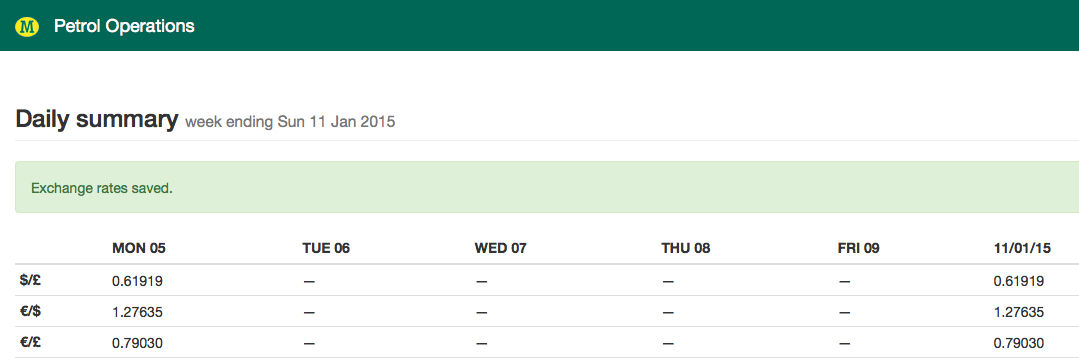
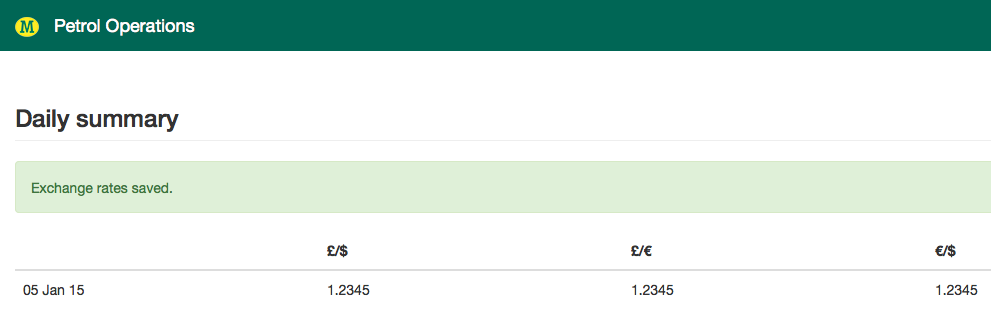
comparison of tables

Changed region(s): [[0.0, 0.5714, 1.0, 0.9714], [0.0, 0.2857, 1.0, 0.5429], [0.0, 0.0286, 1.0, 0.1714]]

diff --git a/market-daily-historic-pt.html b/market-daily-historic-pt.html
@@ -1,0 +1,88 @@
+<!DOCTYPE html>
+	<html lang="en">
+	  <head>
+	    <meta charset="utf-8">
+	    <meta http-equiv="X-UA-Compatible" content="IE=edge">
+	    <meta name="viewport" content="width=device-width, initial-scale=1">
+	    <title>Morrisons Petrol Management System</title>
+
+	    <!-- Bootstrap core CSS -->
+	    <link href="bootstrap-3.2.0-dist/css/bootstrap.min.css" rel="stylesheet">
+	
+	    <!-- Custom styles for this template -->
+	    <link href="pfs.css" rel="stylesheet">
+
+	    <!-- HTML5 Shim and Respond.js IE8 support of HTML5 elements and media queries -->
+	    <!-- WARNING: Respond.js doesn't work if you view the page via file:// -->
+	    <!--[if lt IE 9]>
+	      <script src="https://oss.maxcdn.com/html5shiv/3.7.2/html5shiv.min.js"></script>
+	      <script src="https://oss.maxcdn.com/respond/1.4.2/respond.min.js"></script>
+	    <![endif]-->
+	  </head>
+	  <body>
+	    <div class="navbar navbar-inverse navbar-fixed-top">
+	      <div class="container-fluid">
+	        <div class="navbar-header">
+	          <a class="navbar-brand" href="dashboard.html">
+				<img alt="Morrisons logo" src="morrisonslogo.png" class="navbar-logo"> 
+				Petrol Operations</a>
+	        </div>
+
+				<ul class="nav navbar-nav navbar-left">
+					<li class="active"><a href="market-daily.html">Market data</a></li>
+					</ul>
+				  <ul class="nav navbar-nav navbar-right">
+					<li><a href="">Sign out</a></li>
+					</ul>	
+
+	      </div>
+	    </div>
+		<div class="container-fluid">
+			<div class="row">
+				<div class="col-xs-12">
+					<ul class="nav nav-pills" role="tablist">
+						<li><a href="fx-daily.html">Exchange rates</a></li>
+						<li><a href="prices-daily.html">Fuel prices</a></li>
+						<li class="active"><a href="">Daily summary</a></li>
+					</ul>
+				</div>
+			</div>	
+		</div>	
+		<div class="container-fluid">
+			<div class="row">
+				<div class="col-xs-12">
+					<h3 class="page-header">Daily summary <small>week ending 11/01/15</small></h3>					
+					<table class="table table-hover table-condensed">
+					  <thead><tr><th></th><th>MON 05</th><th>TUE 06</th><th>WED 07</th><th>THU 08</th><th>FRI 09</th><th>Week</th></tr></thead>
+						<tbody>
+							<tr><th>&dollar;/&pound;</th><td>0.61919</td><td>0.61919</td><td>0.61919</td><td>0.61919</td><td>0.61919</td><td>0.61919</td></tr>
+							<tr><th>&euro;/&dollar;</th><td>1.27635</td><td>1.27635</td><td>1.27635</td><td>1.27635</td><td>1.27635</td><td>1.27635</td></tr>
+							<tr><th>&euro;/&pound;</th><td>0.79030</td><td>0.79030</td><td>0.79030</td><td>0.79030</td><td>0.79030</td><td>0.79030</td></tr>
+
+							<tr><td></td><td><button class="btn btn-default btn-sm">Edit</button></td><td><button class="btn btn-default btn-sm">Edit</button></td><td><button class="btn btn-default btn-sm">Edit</button></td><td><button class="btn btn-default btn-sm">Edit</button></td><td><button class="btn btn-default btn-sm">Edit</button></td><td><button class="btn btn-default btn-sm">Edit</button></td></tr>
+
+							<tr><th>Unleaded</th><td>100.23</td><td>100.23</td><td>100.23</td><td>100.23</td><td>100.23</td><td>100.23</td></tr>
+							<tr><th>Diesel</th><td>100.23</td><td>100.23</td><td>100.23</td><td>100.23</td><td>100.23</td><td>100.23</td></tr>
+							<tr><th>Ethanol</th><td>100.23</td><td>100.23</td><td>100.23</td><td>100.23</td><td>100.23</td><td>100.23</td></tr>
+							<tr><th>Red bio-diesel</th><td>100.23</td><td>100.23</td><td>100.23</td><td>100.23</td><td>100.23</td><td>100.23</td></tr>
+							<tr><th>Bio-diesel</th><td>100.23</td><td>100.23</td><td>100.23</td><td>100.23</td><td>100.23</td><td>100.23</td></tr>
+							<tr><th>LPG</th><td>100.23</td><td>100.23</td><td>100.23</td><td>100.23</td><td>100.23</td><td>100.23</td></tr>
+							<tr><th>Med unleaded</th><td>100.23</td><td>100.23</td><td>100.23</td><td>100.23</td><td>100.23</td><td>100.23</td></tr>
+							<tr><th>Med diesel</th><td>100.23</td><td>100.23</td><td>100.23</td><td>100.23</td><td>100.23</td><td>100.23</td></tr>
+							<tr><td></td><td><button class="btn btn-default btn-sm">Edit</button></td><td><button class="btn btn-default btn-sm">Edit</button></td><td><button class="btn btn-default btn-sm">Edit</button></td><td><button class="btn btn-default btn-sm">Edit</button></td><td><button class="btn btn-default btn-sm">Edit</button></td><td><button class="btn btn-default btn-sm">Edit</button></td></tr>
+						</tbody>
+					</table>
+					</table>
+				</div>
+			</div>	
+		</div>
+
+
+    <!-- Bootstrap core JavaScript
+    ================================================== -->
+    <!-- Placed at the end of the document so the pages load faster -->
+    <script src="https://ajax.googleapis.com/ajax/libs/jquery/1.11.1/jquery.min.js"></script>
+    <script src="bootstrap-3.2.0-dist/js/bootstrap.min.js"></script>
+    <script src="assets/js/docs.min.js"></script>
+  </body>
+</html>

diff --git a/market-daily-historic-ls.html b/market-daily-historic-ls.html
@@ -41,8 +41,9 @@
 			<div class="row">
 				<div class="col-xs-12">
 					<ul class="nav nav-pills" role="tablist">
-						<li><a href="market-daily.html">Daily summary</a></li>
-						<li><a href="market-weekly.html">Weekly summary</a></li>
+						<li><a href="fx-daily.html">Exchange rates</a></li>
+						<li><a href="prices-daily.html">Fuel prices</a></li>
+						<li class="active"><a href="">Daily summary</a></li>
 					</ul>
 				</div>
 			</div>	
@@ -50,20 +51,20 @@
 		<div class="container-fluid">
 			<div class="row">
 				<div class="col-xs-12">
-					<h3 class="page-header">Daily summary for week ending Sun 04 Jan 2015</h3>
+					<h3 class="page-header">Daily summary <small>week ending 11/01/15</small></h3>
 					<div class="table-responsive">	
 						<table class="table table-hover">
 							<colgroup>
 								<col>
 								<col span="3">
 							</colgroup>	
-							<thead><th class="col-xs-1"></th><th class="col-xs-1">&pound;/&dollar;</th><th class="col-xs-1">&pound;/&euro;</th><th class="col-xs-1">&euro;/&dollar;</th><th class="col-xs-1">Unleaded</th><th class="col-xs-1">Diesel</th><th class="col-xs-1">Ethanol</th><th class="col-xs-1">Red bio-diesel</th><th class="col-xs-1">Bio-diesel</th><th class="col-xs-1">LPG</th><th class="col-xs-1">Med unleaded</th><th class="col-xs-1">Med diesel</th></thead>
+							<thead><th></th><th>&pound;/&dollar;</th><th>&pound;/&euro;</th><th>&euro;/&dollar;</th><th></th><th class="col-xs-1">Unleaded</th><th class="col-xs-1">Diesel</th><th class="col-xs-1">Ethanol</th><th class="col-xs-1">Red bio-diesel</th><th class="col-xs-1">Bio-diesel</th><th class="col-xs-1">LPG</th><th class="col-xs-1">Med unleaded</th><th class="col-xs-1">Med diesel</th><th></th></thead>
 							<tbody>
-								<tr><td>05 Jan 15</td><td>1.5185</td><td class="text-danger">1.1825</td><td>1.2805</td><td title="L=1054.75">1054.75</td><td>949.25</td><td>624.50</td><td>1211.75</td><td>1168.75</td><td>535.75</td><td>780.00</td><td>757.50</td></tr>
-								<tr><td>06 Jan 15</td><td>1.5185</td><td>1.1825</td><td>1.2805</td><td>1054.75</td><td>949.25</td><td>624.50</td><td>1211.75</td><td>1168.75</td><td>535.75</td><td>780.00</td><td>757.50</td></tr>
-								<tr><td>07 Jan 15</td><td>1.5185</td><td>1.1825</td><td>1.2805</td><td>1054.75</td><td>949.25</td><td>624.50</td><td>1211.75</td><td>1168.75</td><td>535.75</td><td>780.00</td><td>757.50</td></tr>
-								<tr><td>08 Jan 15</td><td>1.5185</td><td>1.1825</td><td>1.2805</td><td>1054.75</td><td>949.25</td><td>624.50</td><td>1211.75</td><td>1168.75</td><td>535.75</td><td>780.00</td><td>757.50</td></tr>
-								<tr><td>09 Jan 15</td><td>1.5185</td><td>1.1825</td><td>1.2805</td><td>1054.75</td><td>949.25</td><td>624.50</td><td>1211.75</td><td>1168.75</td><td>535.75</td><td>780.00</td><td>757.50</td></tr>
+								<tr><td>05 Jan 15</td><td>1.5185</td><td>1.1825</td><td>1.2805</td><td><a href="" class="btn btn-default btn-sm">Edit</a></td><td title="L=1054.75">1054.75</td><td>949.25</td><td>624.50</td><td>1211.75</td><td>1168.75</td><td>535.75</td><td>780.00</td><td>757.50</td><td><a href="" class="btn btn-default btn-sm">Edit</a></td></tr>
+								<tr><td>06 Jan 15</td><td>1.5185</td><td>1.1825</td><td>1.2805</td><td><a href="" class="btn btn-default btn-sm">Edit</a></td><td>1054.75</td><td>949.25</td><td>624.50</td><td>1211.75</td><td>1168.75</td><td>535.75</td><td>780.00</td><td>757.50</td><td><a href="" class="btn btn-default btn-sm">Edit</a></td></tr>
+								<tr><td>07 Jan 15</td><td>1.5185</td><td>1.1825</td><td>1.2805</td><td><a href="" class="btn btn-default btn-sm">Edit</a></td><td>1054.75</td><td>949.25</td><td>624.50</td><td>1211.75</td><td>1168.75</td><td>535.75</td><td>780.00</td><td>757.50</td><td><a href="" class="btn btn-default btn-sm">Edit</a></td></tr>
+								<tr><td>08 Jan 15</td><td>1.5185</td><td>1.1825</td><td>1.2805</td><td><a href="" class="btn btn-default btn-sm">Edit</a></td><td>1054.75</td><td>949.25</td><td>624.50</td><td>1211.75</td><td>1168.75</td><td>535.75</td><td>780.00</td><td>757.50</td><td><a href="" class="btn btn-default btn-sm">Edit</a></td></tr>
+								<tr><td>09 Jan 15</td><td>1.5185</td><td>1.1825</td><td>1.2805</td><td><a href="" class="btn btn-default btn-sm">Edit</a></td><td>1054.75</td><td>949.25</td><td>624.50</td><td>1211.75</td><td>1168.75</td><td>535.75</td><td>780.00</td><td>757.50</td><td><a href="" class="btn btn-default btn-sm">Edit</a></td></tr>
 							</tbody>
 						</table>
 					</div>	
